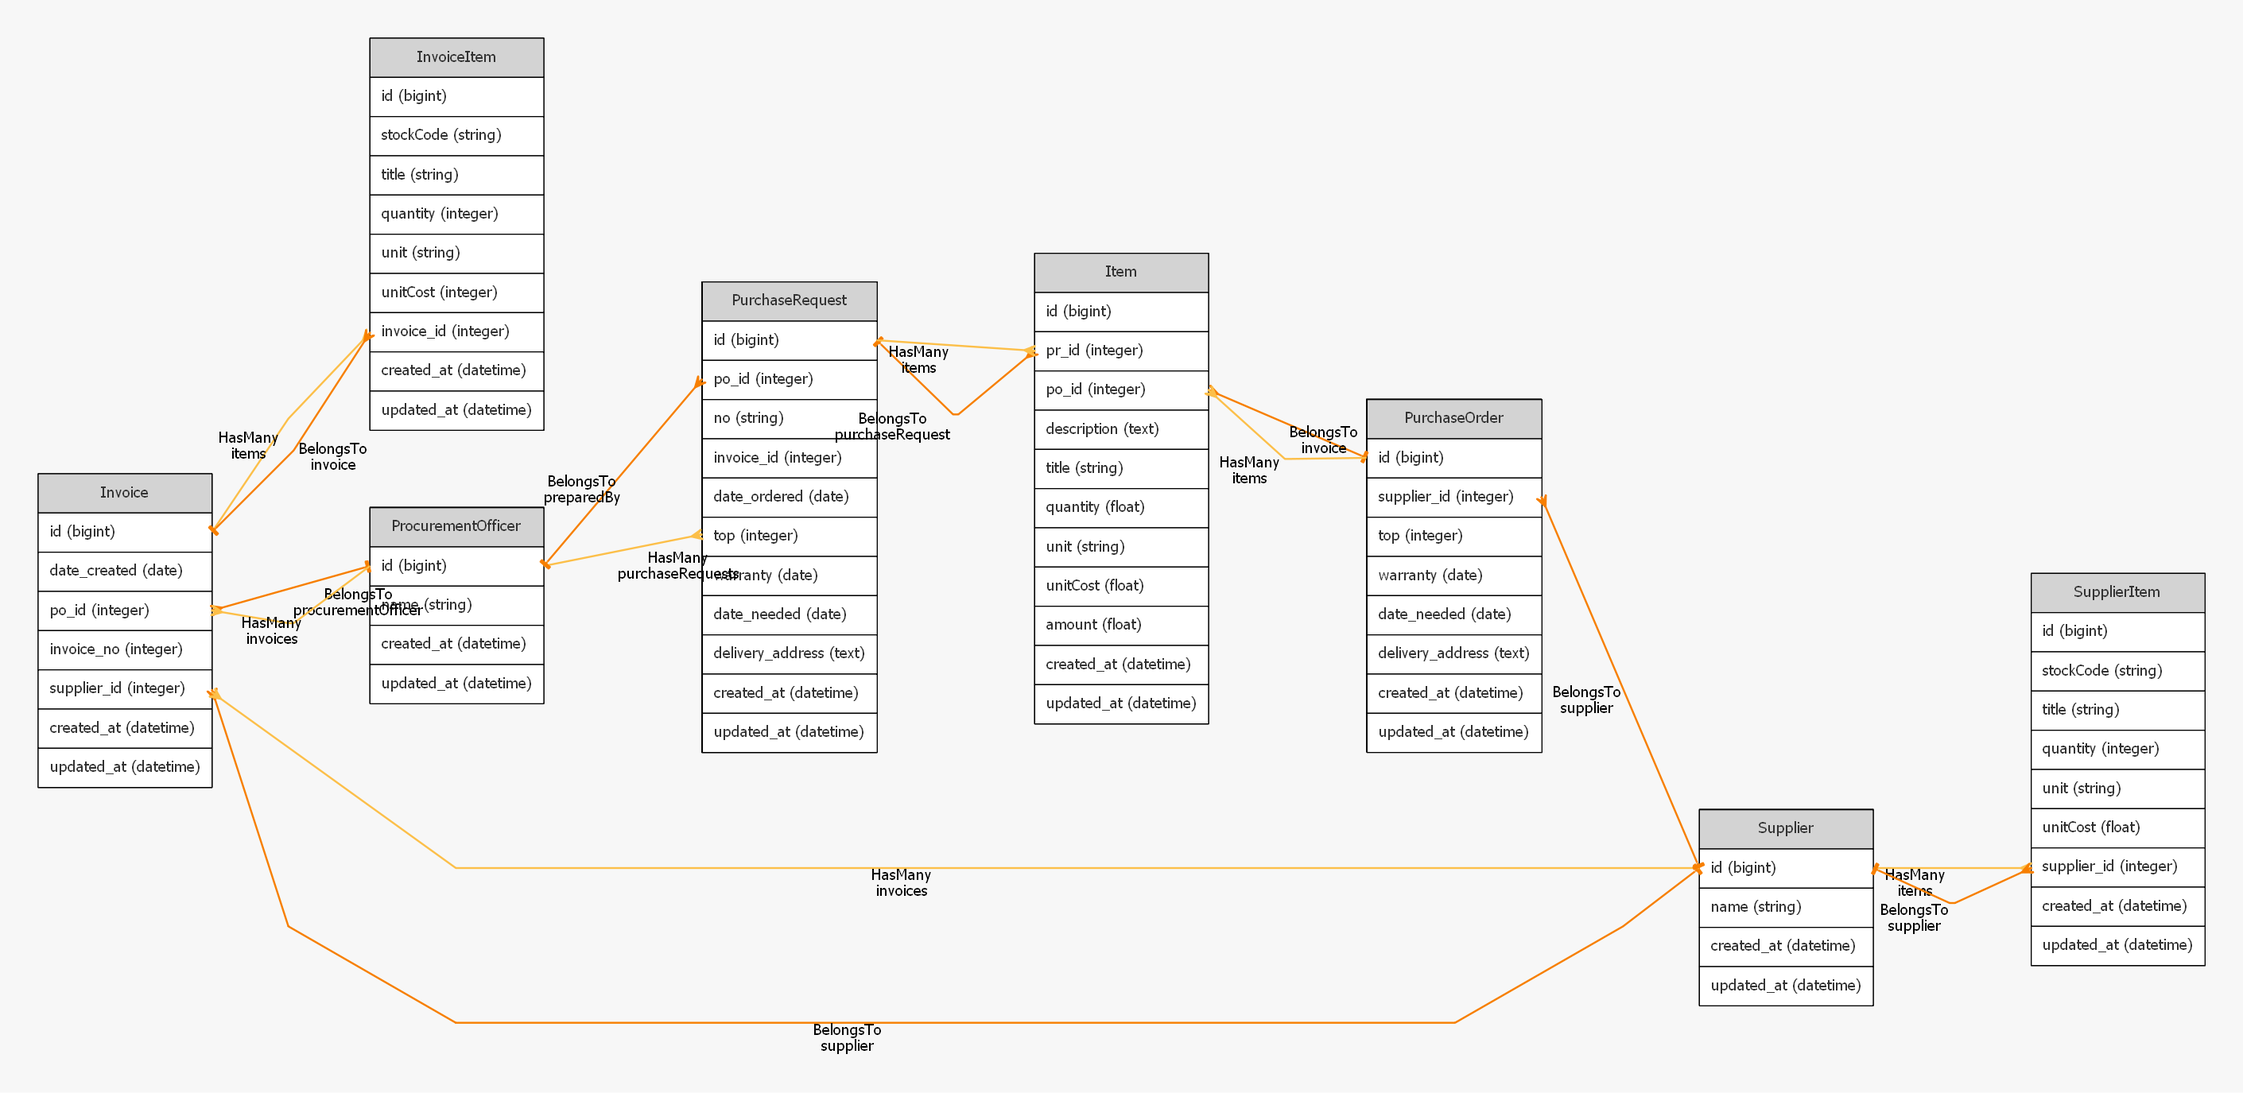
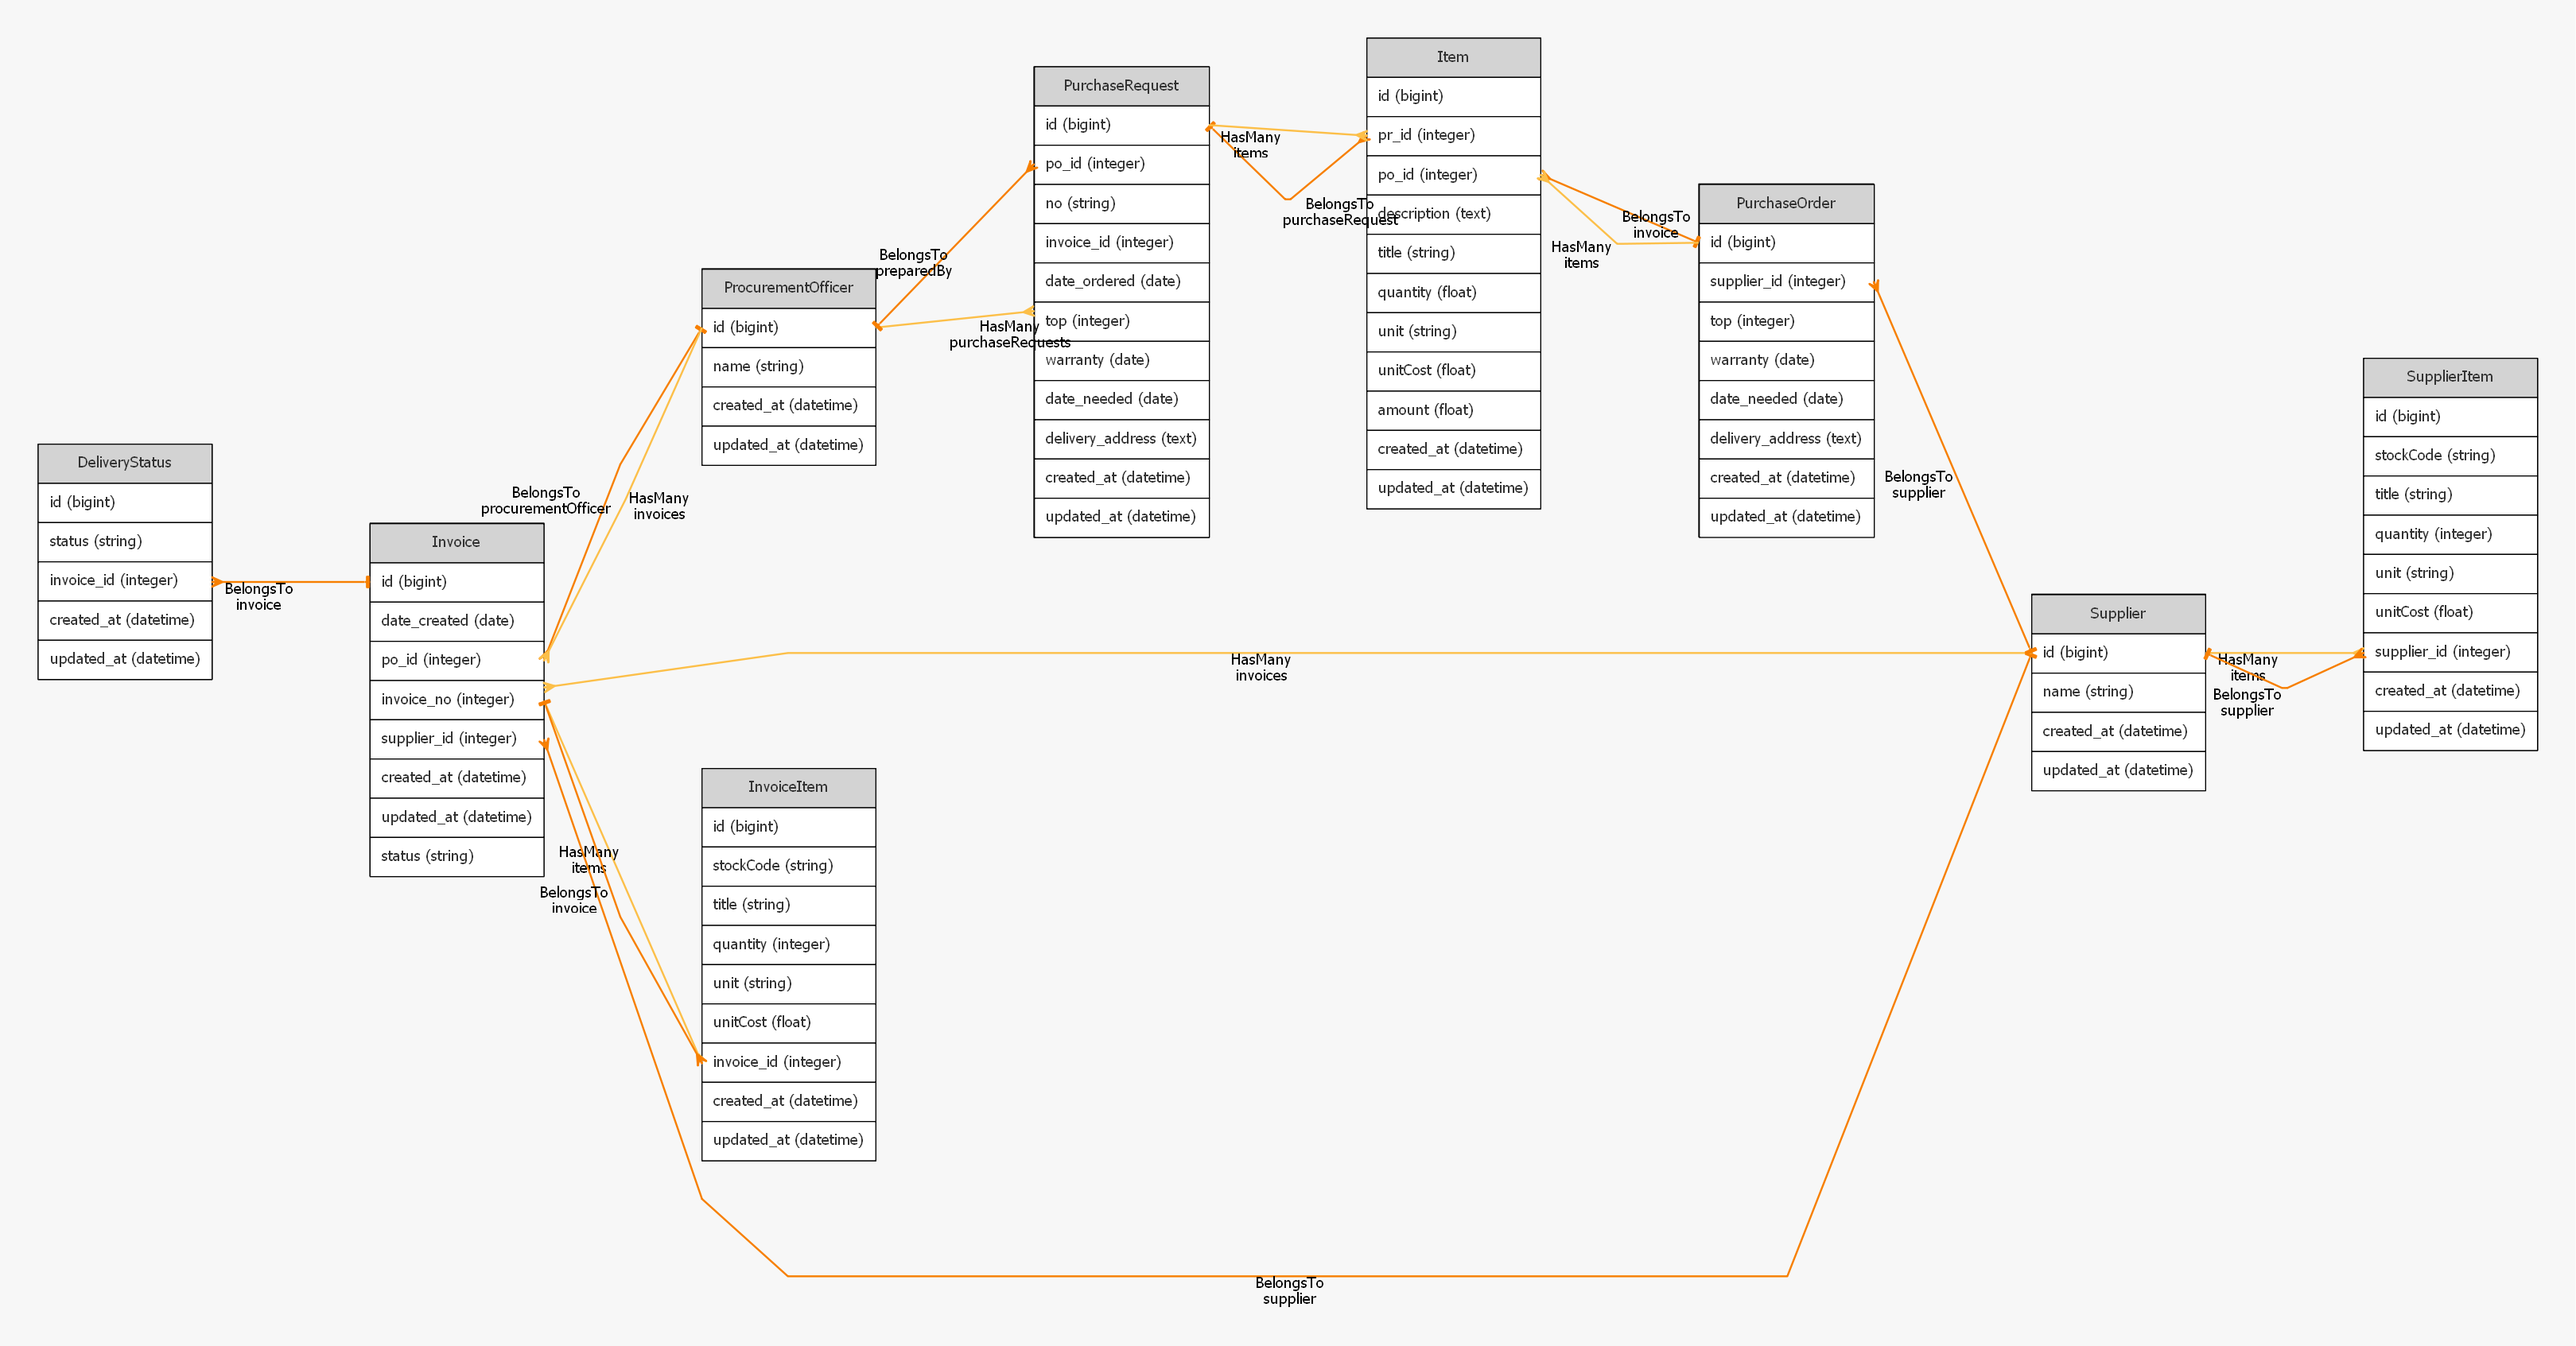
Added Delivery Status

diff --git a/app/Http/Controllers/DeliveryStatusController.php b/app/Http/Controllers/DeliveryStatusController.php
@@ -1,0 +1,76 @@
+<?php
+
+namespace App\Http\Controllers;
+
+use App\DeliveryStatus;
+use Illuminate\Http\Request;
+use Illuminate\Contracts\Routing\ResponseFactory;
+
+
+class DeliveryStatusController extends Controller
+{
+    protected $deliveryStatus;
+
+    protected $response;
+
+    public function __construct(ResponseFactory $response, DeliveryStatus $deliveryStatus){
+       $this->deliveryStatus = $deliveryStatus;
+       $this->response = $response;
+    }
+
+
+    /**
+     * Display a listing of the resource.
+     *
+     * @return \Illuminate\Http\Response
+     */
+    public function index()
+    {
+        return $this->response->json($this->deliveryStatus->all());
+    }
+
+    /**
+     * Store a newly created resource in storage.
+     *
+     * @param  \Illuminate\Http\Request  $request
+     * @return \Illuminate\Http\Response
+     */
+    public function store(Request $request)
+    {
+        return $this->response->json($this->deliveryStatus->create($request->all()),201);
+    }
+
+    /**
+     * Display the specified resource.
+     *
+     * @param  \App\DeliveryStatus  $deliveryStatus
+     * @return \Illuminate\Http\Response
+     */
+    public function show(DeliveryStatus $deliveryStatus)
+    {
+        return $this->response->json($deliveryStatus);
+    }
+
+    /**
+     * Update the specified resource in storage.
+     *
+     * @param  \Illuminate\Http\Request  $request
+     * @param  \App\DeliveryStatus  $deliveryStatus
+     * @return \Illuminate\Http\Response
+     */
+    public function update(Request $request, DeliveryStatus $deliveryStatus)
+    {
+        return $this->response->json($deliveryStatus->update($request->all()),202);        
+    }
+
+    /**
+     * Remove the specified resource from storage.
+     *
+     * @param  \App\DeliveryStatus  $deliveryStatus
+     * @return \Illuminate\Http\Response
+     */
+    public function destroy(DeliveryStatus $deliveryStatus)
+    {
+        return $this->response->json($deliveryStatus->delete(),204);        
+    }
+}

diff --git a/app/Http/Resources/InvoiceResource.php b/app/Http/Resources/InvoiceResource.php
@@ -1,0 +1,37 @@
+<?php
+
+namespace App\Http\Resources;
+
+use Illuminate\Http\Resources\Json\JsonResource;
+
+class InvoiceResource extends JsonResource
+{
+    /**
+     * Transform the resource into an array.
+     *
+     * @param  \Illuminate\Http\Request  $request
+     * @return array
+     */
+    public function toArray($request)
+    {
+        return [
+            'id' => $this->id
+        ];
+        // return collect($this->toArray)
+        // ->flatMap(function($invoice){
+        //     return collect($invoice['items'])
+        //         ->map(function($item){
+        //             return [
+        //                 'id' => $item['id'],
+        //                 'stockCode' => $item['stockCode'],
+        //                 'title'=> $item['title'],
+        //                 'quantity' => $item['quantity'],
+        //                 'unit'=> $item['unit'],
+        //                 'unitCost'=> $item['unitCost'],
+        //                 'supplier_id' => $item['supplier']['id']
+        //             ];
+        //         });
+            
+        // }); 
+    }
+}

diff --git a/app/Console/Commands/ImportPurchaseOrder.php b/app/Console/Commands/ImportPurchaseOrder.php
@@ -52,8 +52,6 @@ class ImportPurchaseOrder extends Command
 
         $data = collect($records)
         ->mapToGroups(function($item,$key){
-            $po = ProcurementOfficer::create(['name' => 'Mr. Procurement Officer']);
-            
             return [
                         $item['Invoice'] => [
                             'stockCode' => $item['StockCode'],
@@ -61,9 +59,10 @@ class ImportPurchaseOrder extends Command
                             'quantity' => intval($item['Quantity']),
                             'date_created' => $item['InvoiceDate'],
                             'unitCost' => floatval($item['Price']),
-                            'po_id' => intval($po->id),
+                            'po_id' => 1,
                             'invoice_id' => intval($item['Invoice']),
-                            'unit'=>'kg'
+                            'unit'=>'kg',
+                            'status' => 'paid'
                         ]
                 ];
         })

diff --git a/routes/api.php b/routes/api.php
@@ -1,6 +1,11 @@
 <?php
 
 use Illuminate\Http\Request;
+use App\Invoice;
+use App\InvoiceItem;
+use App\ProcurementOfficer;
+use App\Http\Resources\InvoiceItemResource;
+use App\Http\Resources\InvoiceResource;
 
 /*
 |--------------------------------------------------------------------------
@@ -35,6 +40,14 @@ Route::apiResource('invoice','InvoiceController');
 
 Route::apiResource('invoiceItem','InvoiceItemController');
 
+Route::get('/data/{po}', function(Request $request,ProcurementOfficer $po){
+    dd($po->invoices);
+    return InvoiceResource::collection($po->invoices);
+});
+
+Route::get('/data', function(Request $request){
+    return InvoiceItemResource::collection(InvoiceItem::all()->load('invoice.supplier','invoice.procurementOfficer'));
+});
 
 
 

diff --git a/app/Http/Resources/InvoiceItemResource.php b/app/Http/Resources/InvoiceItemResource.php
@@ -1,0 +1,29 @@
+<?php
+
+namespace App\Http\Resources;
+
+use Illuminate\Http\Resources\Json\JsonResource;
+
+class InvoiceItemResource extends JsonResource
+{
+
+    /**
+     * Transform the resource into an array.
+     *
+     * @param  \Illuminate\Http\Request  $request
+     * @return array
+     */
+    public function toArray($request)
+    {
+        return [
+            'id' => $this->id,
+            'stockCode' => $this->stockCode,
+            'title'=> $this->title,
+            'quantity' => $this->quantity,
+            'unit'=> $this->unit,
+            'unitCost'=> $this->unitCost,
+            'supplier_id' => $this->invoice->supplier['id'],
+            'po_id' => $this->invoice->procurementOfficer['id'],
+        ];
+    }
+}

diff --git a/database/migrations/2019_09_29_005514_create_delivery_statuses_table.php b/database/migrations/2019_09_29_005514_create_delivery_statuses_table.php
@@ -1,0 +1,33 @@
+<?php
+
+use Illuminate\Database\Migrations\Migration;
+use Illuminate\Database\Schema\Blueprint;
+use Illuminate\Support\Facades\Schema;
+
+class CreateDeliveryStatusesTable extends Migration
+{
+    /**
+     * Run the migrations.
+     *
+     * @return void
+     */
+    public function up()
+    {
+        Schema::create('delivery_statuses', function (Blueprint $table) {
+            $table->bigIncrements('id');
+            $table->string('status');
+            $table->integer('invoice_id');
+            $table->timestamps();
+        });
+    }
+
+    /**
+     * Reverse the migrations.
+     *
+     * @return void
+     */
+    public function down()
+    {
+        Schema::dropIfExists('delivery_statuses');
+    }
+}

diff --git a/database/migrations/2019_09_29_003139_add_invoice_status.php b/database/migrations/2019_09_29_003139_add_invoice_status.php
@@ -1,0 +1,30 @@
+<?php
+
+use Illuminate\Database\Migrations\Migration;
+use Illuminate\Database\Schema\Blueprint;
+use Illuminate\Support\Facades\Schema;
+
+class AddInvoiceStatus extends Migration
+{
+    /**
+     * Run the migrations.
+     *
+     * @return void
+     */
+    public function up()
+    {
+        Schema::table('invoices', function (Blueprint $table) {
+            $table->string('status')->default('unconfirmed');
+        });
+    }
+
+    /**
+     * Reverse the migrations.
+     *
+     * @return void
+     */
+    public function down()
+    {
+        Schema::dropIfExists('invoices');
+    }
+}

diff --git a/app/Invoice.php b/app/Invoice.php
@@ -10,7 +10,8 @@ class Invoice extends Model
         'date_created',
         'po_id',
         'invoice_no',
-        'supplier_id'
+        'supplier_id',
+        'status'
     ];
 
     public function items(){
@@ -23,5 +24,9 @@ class Invoice extends Model
 
     public function procurementOfficer(){
         return $this->belongsTo(ProcurementOfficer::class,'po_id','id');
+    }
+
+    public function delivery(){
+        return $this->hasOnce(DeliveryStatus::class,'invoice_id','id');
     }
 }

diff --git a/database/seeds/ProcurementSeeder.php b/database/seeds/ProcurementSeeder.php
@@ -1,9 +1,8 @@
 <?php
 
 use Illuminate\Database\Seeder;
-use App\ProcurementOfficer;
 
-class ProcurementOfficerSeeder extends Seeder
+class ProcurementSeeder extends Seeder
 {
     /**
      * Run the database seeds.
@@ -12,6 +11,6 @@ class ProcurementOfficerSeeder extends Seeder
      */
     public function run()
     {
-        factory(ProcurementOfficer::class)->create();   
+        //
     }
 }

diff --git a/app/Http/Controllers/ProcurementOfficerInvoiceController.php b/app/Http/Controllers/ProcurementOfficerInvoiceController.php
@@ -25,7 +25,7 @@ class ProcurementOfficerInvoiceController extends Controller
      */
     public function index(ProcurementOfficer $procurementOfficer)
     {
-        return $this->response->json($procurementOfficer->all());
+        return $this->response->json($procurementOfficer->invoices);
     }
 
     /**

diff --git a/app/DeliveryStatus.php b/app/DeliveryStatus.php
@@ -1,0 +1,17 @@
+<?php
+
+namespace App;
+
+use Illuminate\Database\Eloquent\Model;
+
+class DeliveryStatus extends Model
+{
+    protected $fillable = [
+        'name',
+        'invoice_id'
+    ];
+
+    public function invoice(){
+        return $this->belongsTo(Invoice::class,'invoice_id','id');
+    }
+}

diff --git a/database/factories/DeliveryStatusFactory.php b/database/factories/DeliveryStatusFactory.php
@@ -1,0 +1,12 @@
+<?php
+
+/** @var \Illuminate\Database\Eloquent\Factory $factory */
+
+use App\DeliveryStatus;
+use Faker\Generator as Faker;
+
+$factory->define(DeliveryStatus::class, function (Faker $faker) {
+    return [
+        //
+    ];
+});
